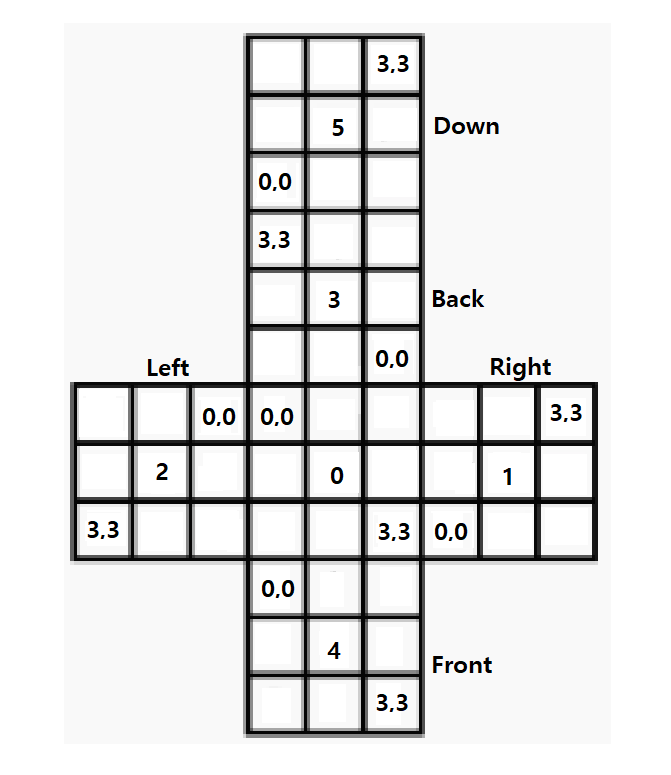
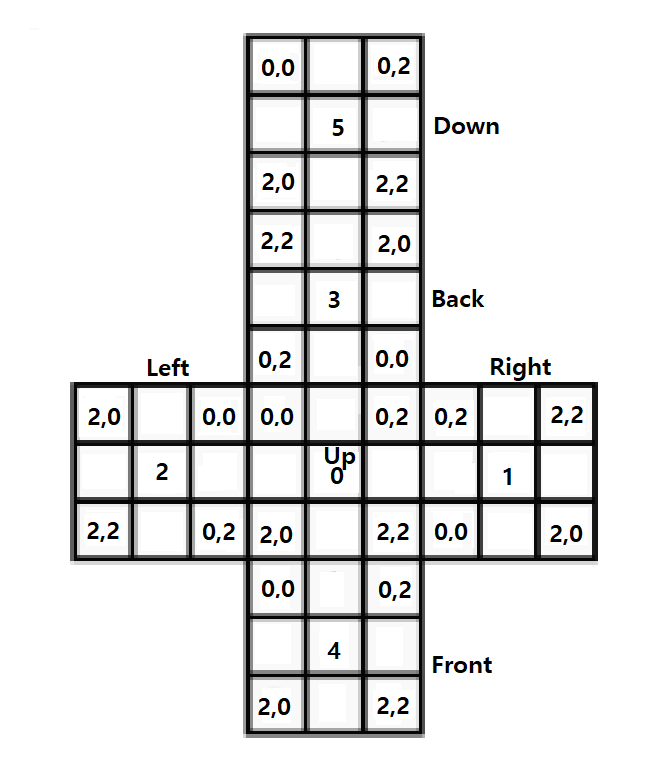
finished left rotation

diff --git a/src/Cube.hpp b/src/Cube.hpp
@@ -16,7 +16,7 @@ private:
     vector<vector<int>> Right;
     vector<vector<int>> Front;
     vector<vector<int>> Back;
-    
+
 public:
     Cube() {
         Up = vector<vector<int>>(3, vector<int>(3, 0));
@@ -48,7 +48,7 @@ public:
         Front[3] = Left[3];
         Left[3] = Back[3];
         Back[3] = Right[3];
-        Front[3] = tmp;                                                                   
+        Front[3] = tmp;
     }
     void turnCounterDown() {
         vector<int> tmp = Front[3];
@@ -59,19 +59,27 @@ public:
     }
 
     void turnLeft() {
+        //non face turns
         vector<int> tmp = {Front[0][0], Front[1][0], Front[2][0]};
         Front[0][0] = Up[0][0]; Front[1][0] = Up[1][0]; Front[2][0] = Up[2][0];
-                        
+        Up[0][0] = Back[2][2]; Up[1][0] = Back[1][2]; Up[2][0] = Back[0][2];
+        Back[0][2] = Down[2][0]; Back[1][2] = Down[1][0]; Back[2][2] = Down[0][0];
+        Down[0][0] =  tmp[0]; Down[1][0] = tmp[1]; Down[2][0] = tmp[2];
     }
     void turnCounterLeft() {
-
-    } 
+        //non face turns
+        vector<int> tmp = {Front[0][0], Front[1][0], Front[2][0]};
+        Front[0][0] = Down[0][0]; Front[1][0] = Down[2][0]; Front[2][0] = Down[2][0];
+        Down[0][0] = Back[2][2]; Down[1][0] = Back[1][2]; Down[2][0] = Back[0][2];
+        Back[0][2] = Up[2][0]; Back[1][2] = Up[1][0]; Back[2][2] = Up[0][0];
+        Up[0][0] = tmp[0]; Up[1][0] = tmp[1]; Up[2][0] = tmp[2];
+    }
 
     void turnRight() {
 
     }
     void turnCounterRight(){
-        
+
     }
 
 
@@ -80,7 +88,7 @@ public:
         Up[2] = {Left[2][2], Left[1][2], Left[0][2]};
         Left[0][2] = Down[0][0]; Left[1][2] = Down[0][1]; Left[2][2] = Down[0][2];
         Down[0] = {Right[2][0], Right[1][0], Right[0][0]};
-        Right[0][1] = tmp[0]; Right[1][0] = tmp[1]; Right[2][0] = tmp[2];      
+        Right[0][1] = tmp[0]; Right[1][0] = tmp[1]; Right[2][0] = tmp[2];
     }
 
     void turnCounterFront() {
@@ -97,7 +105,7 @@ public:
     }
 
     void showTable(){
-        
+
     }
 };
 
